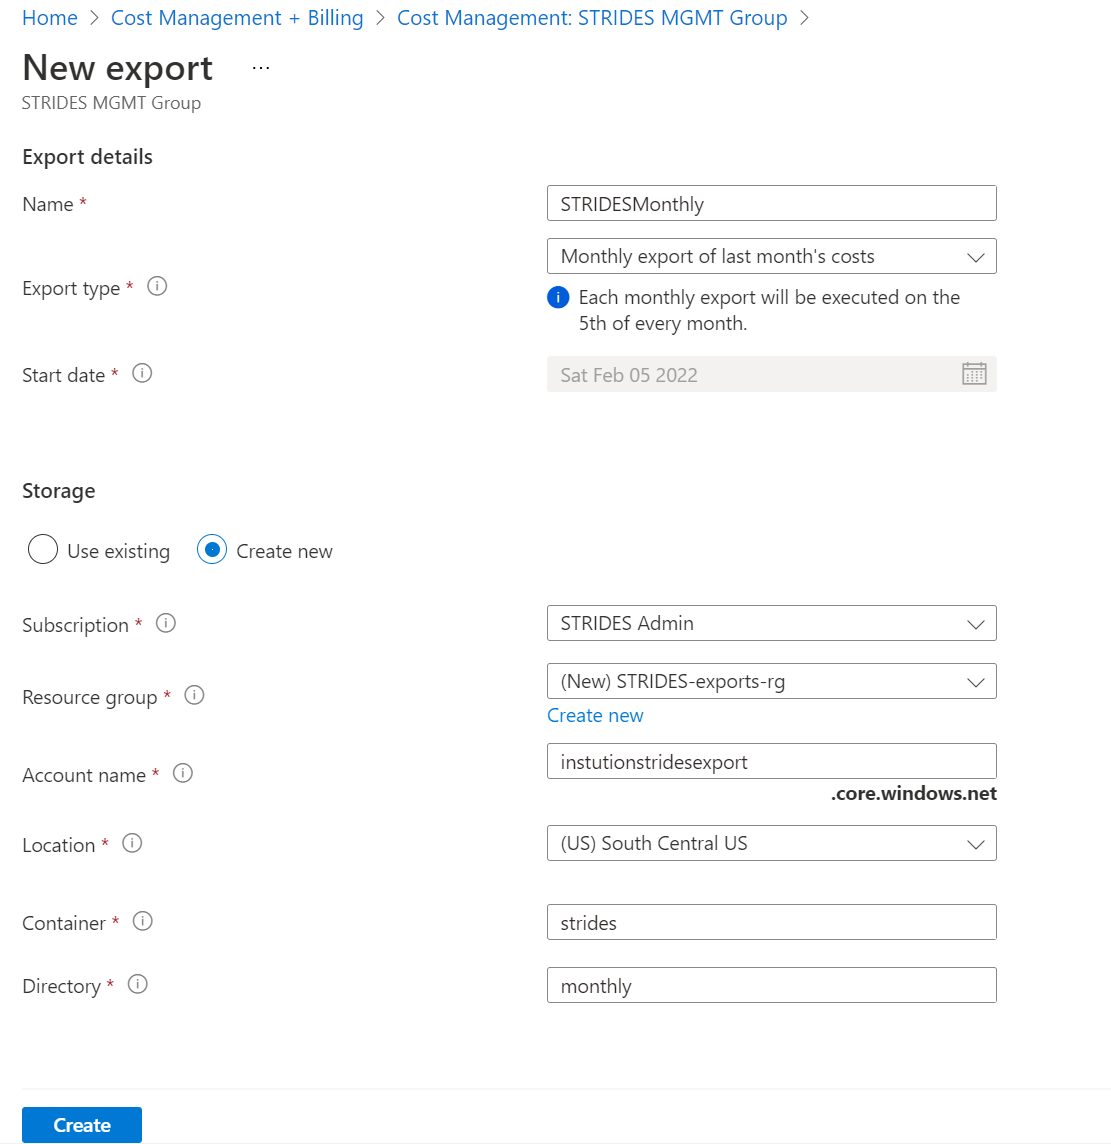
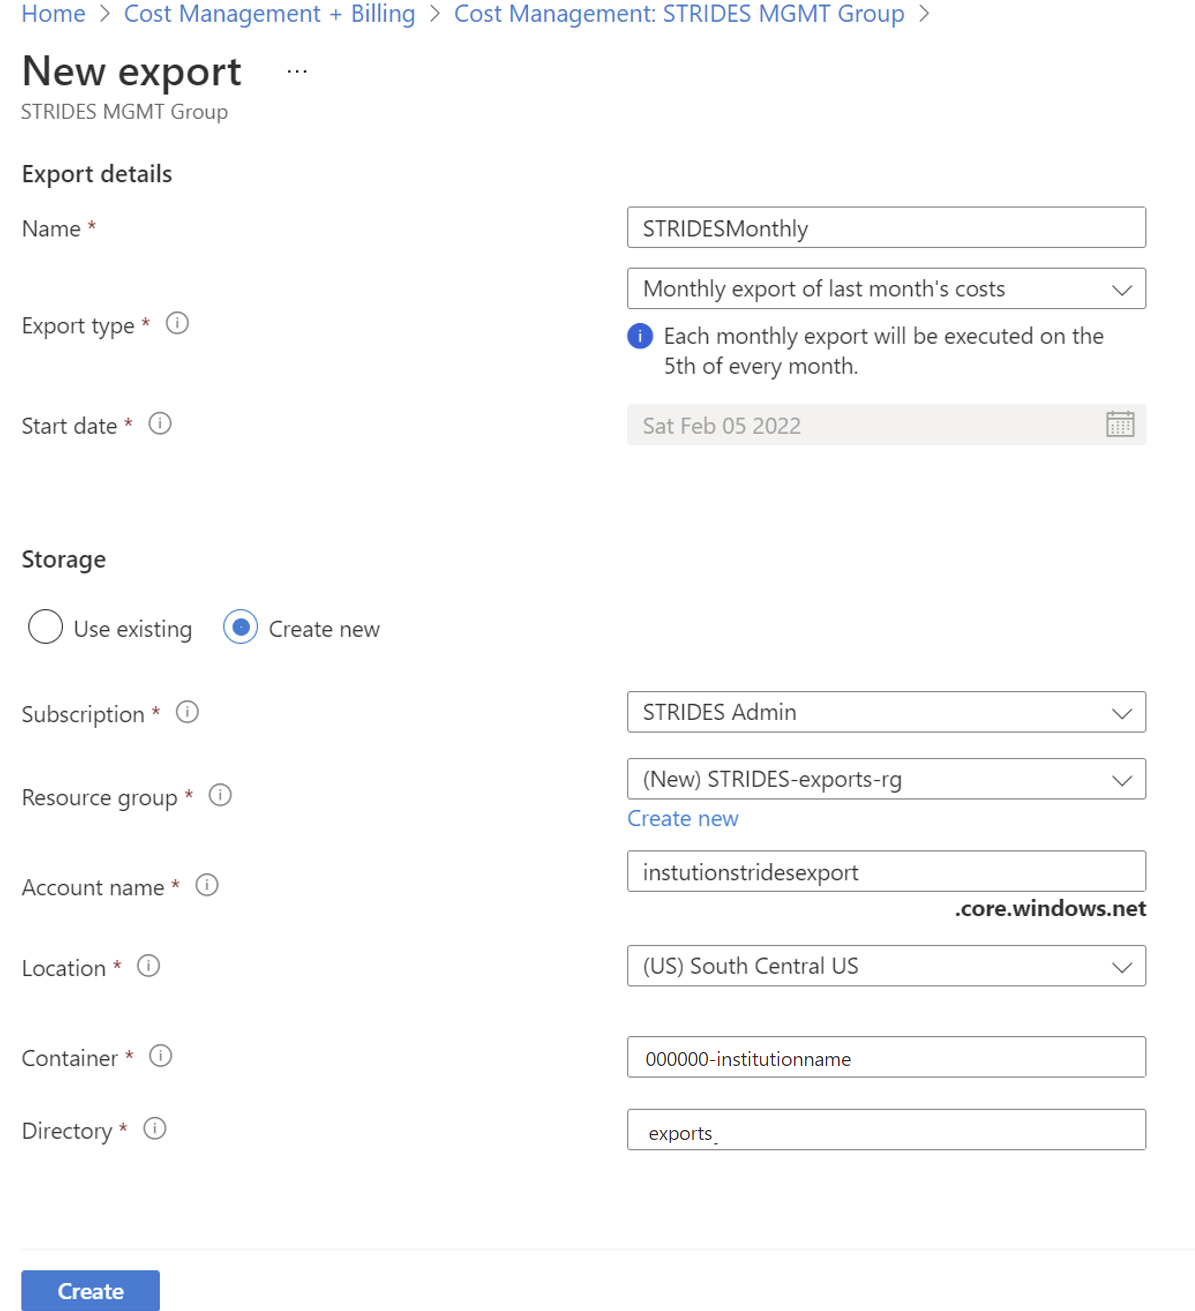
updating export params

diff --git a/extramural reporting/README.md b/extramural reporting/README.md
@@ -82,8 +82,8 @@ Azure Cost Management provides the ability to automatically schedule an export o
     | **Resource group**  | Create new Resource Group called "STRIDES-exports-rg"  |
     | **Account Name**  | Globally unique and meaningful alphanumeric name  |
     | **Location**  | Azure Region closest to your institution  |
-    | **Container**  | strides  |
-    | **Directory**  | monthly  |
+    | **Container**  | \<Your Azure Enrollment Number\>-InstituionName (e.g. <span style="color:red">**00000000-UniversityOfAzure**</span>)|
+    | **Directory**  | exports  |
 
     ![STRIDES Export Parameters](media/strides-export-params.png)
 
